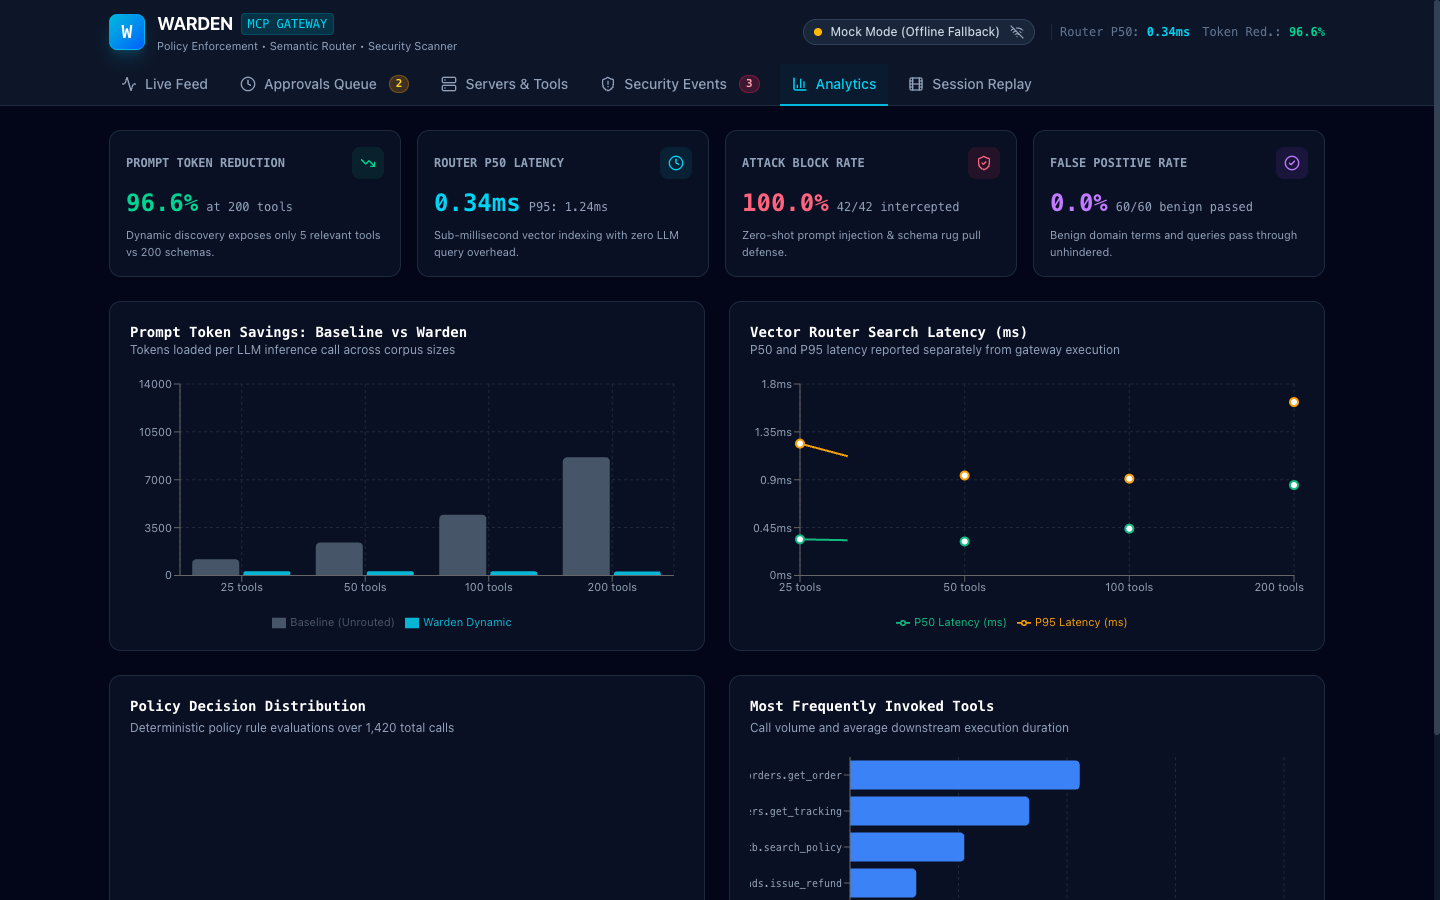
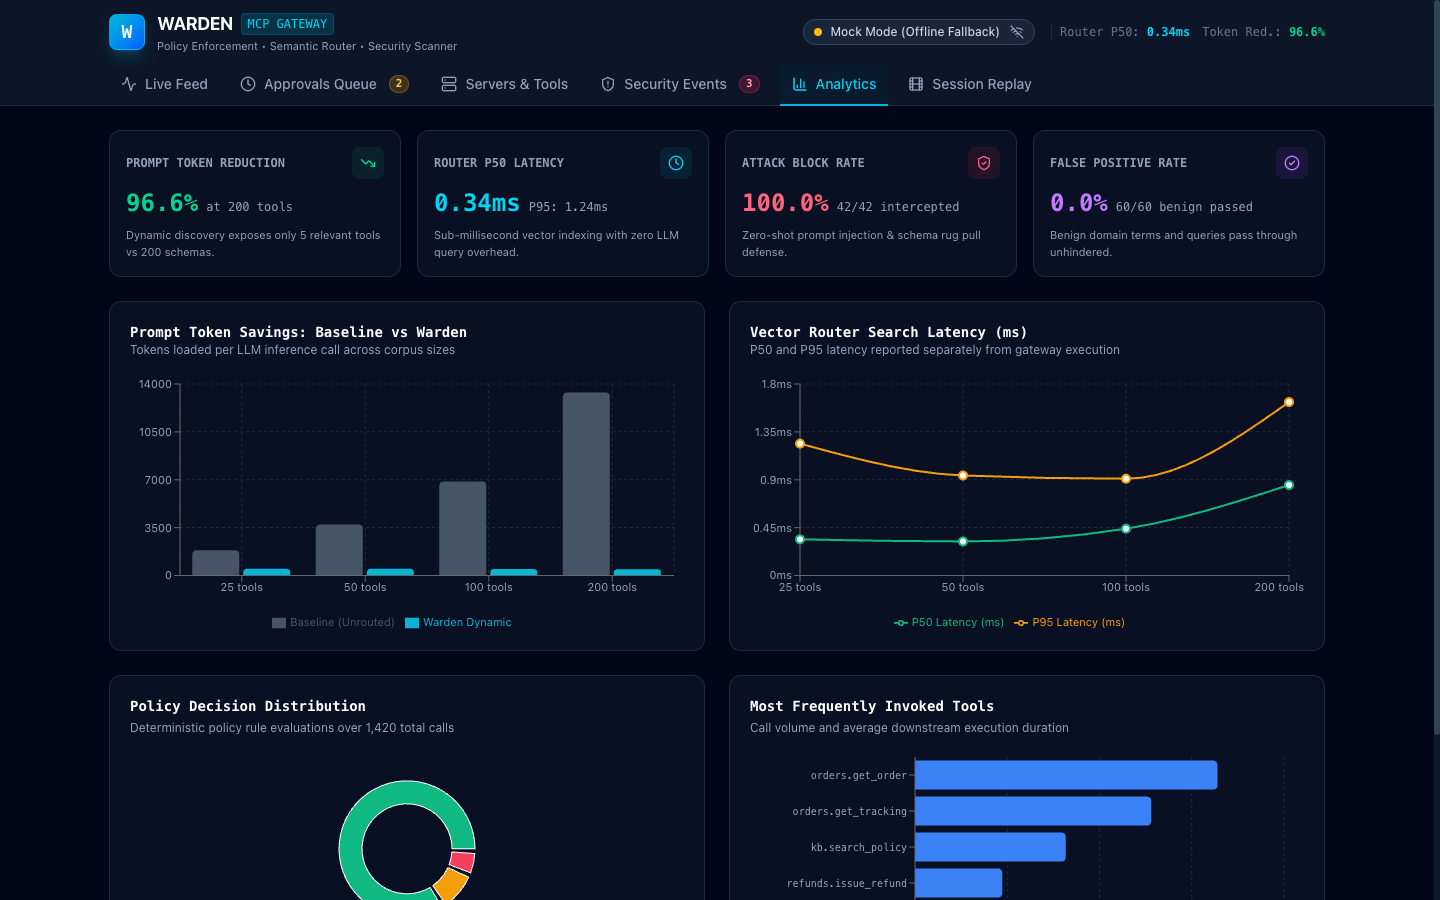
fix(dashboard): refine chart dimensions, label widths, and pie chart centering

diff --git a/dashboard/src/components/Analytics.tsx b/dashboard/src/components/Analytics.tsx
@@ -151,8 +151,8 @@ export const Analytics: React.FC = () => {
                   ]}
                 />
                 <Legend wrapperStyle={{ fontSize: "11px", paddingTop: "8px" }} />
-                <Bar dataKey="baselineTokens" name="Baseline (Unrouted)" fill="#475569" radius={[4, 4, 0, 0]} />
-                <Bar dataKey="routedTokens" name="Warden Dynamic" fill="#06b6d4" radius={[4, 4, 0, 0]} />
+                <Bar dataKey="baselineTokens" name="Baseline (Unrouted)" fill="#475569" radius={[4, 4, 0, 0]} isAnimationActive={false} />
+                <Bar dataKey="routedTokens" name="Warden Dynamic" fill="#06b6d4" radius={[4, 4, 0, 0]} isAnimationActive={false} />
               </BarChart>
             </ResponsiveContainer>
           </div>
@@ -171,16 +171,16 @@ export const Analytics: React.FC = () => {
 
           <div className="h-64">
             <ResponsiveContainer width="100%" height="100%">
-              <LineChart data={data.routerLatencyBySize} margin={{ top: 10, right: 10, left: -10, bottom: 0 }}>
+              <LineChart data={data.routerLatencyBySize} margin={{ top: 10, right: 15, left: -10, bottom: 0 }}>
                 <CartesianGrid strokeDasharray="3 3" stroke="#1e293b" />
-                <XAxis dataKey="corpusSize" tick={{ fill: "#94a3b8", fontSize: 11 }} tickFormatter={(v) => `${v} tools`} />
+                <XAxis type="category" dataKey="corpusSize" tick={{ fill: "#94a3b8", fontSize: 11 }} tickFormatter={(v) => `${v} tools`} />
                 <YAxis tick={{ fill: "#94a3b8", fontSize: 11 }} unit="ms" />
                 <Tooltip
                   contentStyle={{ backgroundColor: "#0f172a", borderColor: "#334155", borderRadius: "8px", fontSize: "12px" }}
                 />
                 <Legend wrapperStyle={{ fontSize: "11px", paddingTop: "8px" }} />
-                <Line type="monotone" dataKey="p50Ms" name="P50 Latency (ms)" stroke="#10b981" strokeWidth={2} dot={{ r: 4 }} />
-                <Line type="monotone" dataKey="p95Ms" name="P95 Latency (ms)" stroke="#f59e0b" strokeWidth={2} dot={{ r: 4 }} />
+                <Line type="monotone" dataKey="p50Ms" name="P50 Latency (ms)" stroke="#10b981" strokeWidth={2} dot={{ r: 4 }} isAnimationActive={false} />
+                <Line type="monotone" dataKey="p95Ms" name="P95 Latency (ms)" stroke="#f59e0b" strokeWidth={2} dot={{ r: 4 }} isAnimationActive={false} />
               </LineChart>
             </ResponsiveContainer>
           </div>
@@ -193,30 +193,29 @@ export const Analytics: React.FC = () => {
           </h4>
           <p className="text-xs text-slate-400 mb-4">Deterministic policy rule evaluations over 1,420 total calls</p>
 
-          <div className="h-64 flex flex-col md:flex-row items-center justify-center">
-            <div className="w-full h-full">
-              <ResponsiveContainer width="100%" height="100%">
-                <PieChart>
-                  <Pie
-                    data={pieData}
-                    cx="50%"
-                    cy="50%"
-                    innerRadius={55}
-                    outerRadius={80}
-                    paddingAngle={4}
-                    dataKey="value"
-                  >
-                    {pieData.map((_, index) => (
-                      <Cell key={`cell-${index}`} fill={DECISION_COLORS[index % DECISION_COLORS.length]} />
-                    ))}
-                  </Pie>
-                  <Tooltip
-                    contentStyle={{ backgroundColor: "#0f172a", borderColor: "#334155", borderRadius: "8px", fontSize: "12px" }}
-                  />
-                  <Legend wrapperStyle={{ fontSize: "11px" }} />
-                </PieChart>
-              </ResponsiveContainer>
-            </div>
+          <div className="h-64">
+            <ResponsiveContainer width="100%" height="100%">
+              <PieChart>
+                <Pie
+                  data={pieData}
+                  cx="50%"
+                  cy="40%"
+                  innerRadius={45}
+                  outerRadius={68}
+                  paddingAngle={4}
+                  dataKey="value"
+                  isAnimationActive={false}
+                >
+                  {pieData.map((_, index) => (
+                    <Cell key={`cell-${index}`} fill={DECISION_COLORS[index % DECISION_COLORS.length]} />
+                  ))}
+                </Pie>
+                <Tooltip
+                  contentStyle={{ backgroundColor: "#0f172a", borderColor: "#334155", borderRadius: "8px", fontSize: "12px" }}
+                />
+                <Legend wrapperStyle={{ fontSize: "11px" }} />
+              </PieChart>
+            </ResponsiveContainer>
           </div>
         </div>
 
@@ -229,15 +228,20 @@ export const Analytics: React.FC = () => {
 
           <div className="h-64">
             <ResponsiveContainer width="100%" height="100%">
-              <BarChart data={data.topTools} layout="vertical" margin={{ top: 5, right: 20, left: 40, bottom: 5 }}>
+              <BarChart data={data.topTools} layout="vertical" margin={{ top: 5, right: 20, left: 10, bottom: 5 }}>
                 <CartesianGrid strokeDasharray="3 3" stroke="#1e293b" horizontal={false} />
                 <XAxis type="number" tick={{ fill: "#94a3b8", fontSize: 11 }} />
-                <YAxis type="category" dataKey="name" tick={{ fill: "#94a3b8", fontSize: 10, fontFamily: "monospace" }} />
+                <YAxis
+                  type="category"
+                  dataKey="name"
+                  width={155}
+                  tick={{ fill: "#94a3b8", fontSize: 10, fontFamily: "monospace" }}
+                />
                 <Tooltip
                   contentStyle={{ backgroundColor: "#0f172a", borderColor: "#334155", borderRadius: "8px", fontSize: "12px" }}
                   formatter={(value: any, name: any) => [value, name === "calls" ? "Total Calls" : "Avg Latency (ms)"]}
                 />
-                <Bar dataKey="calls" name="Total Calls" fill="#3b82f6" radius={[0, 4, 4, 0]} />
+                <Bar dataKey="calls" name="Total Calls" fill="#3b82f6" radius={[0, 4, 4, 0]} isAnimationActive={false} />
               </BarChart>
             </ResponsiveContainer>
           </div>
